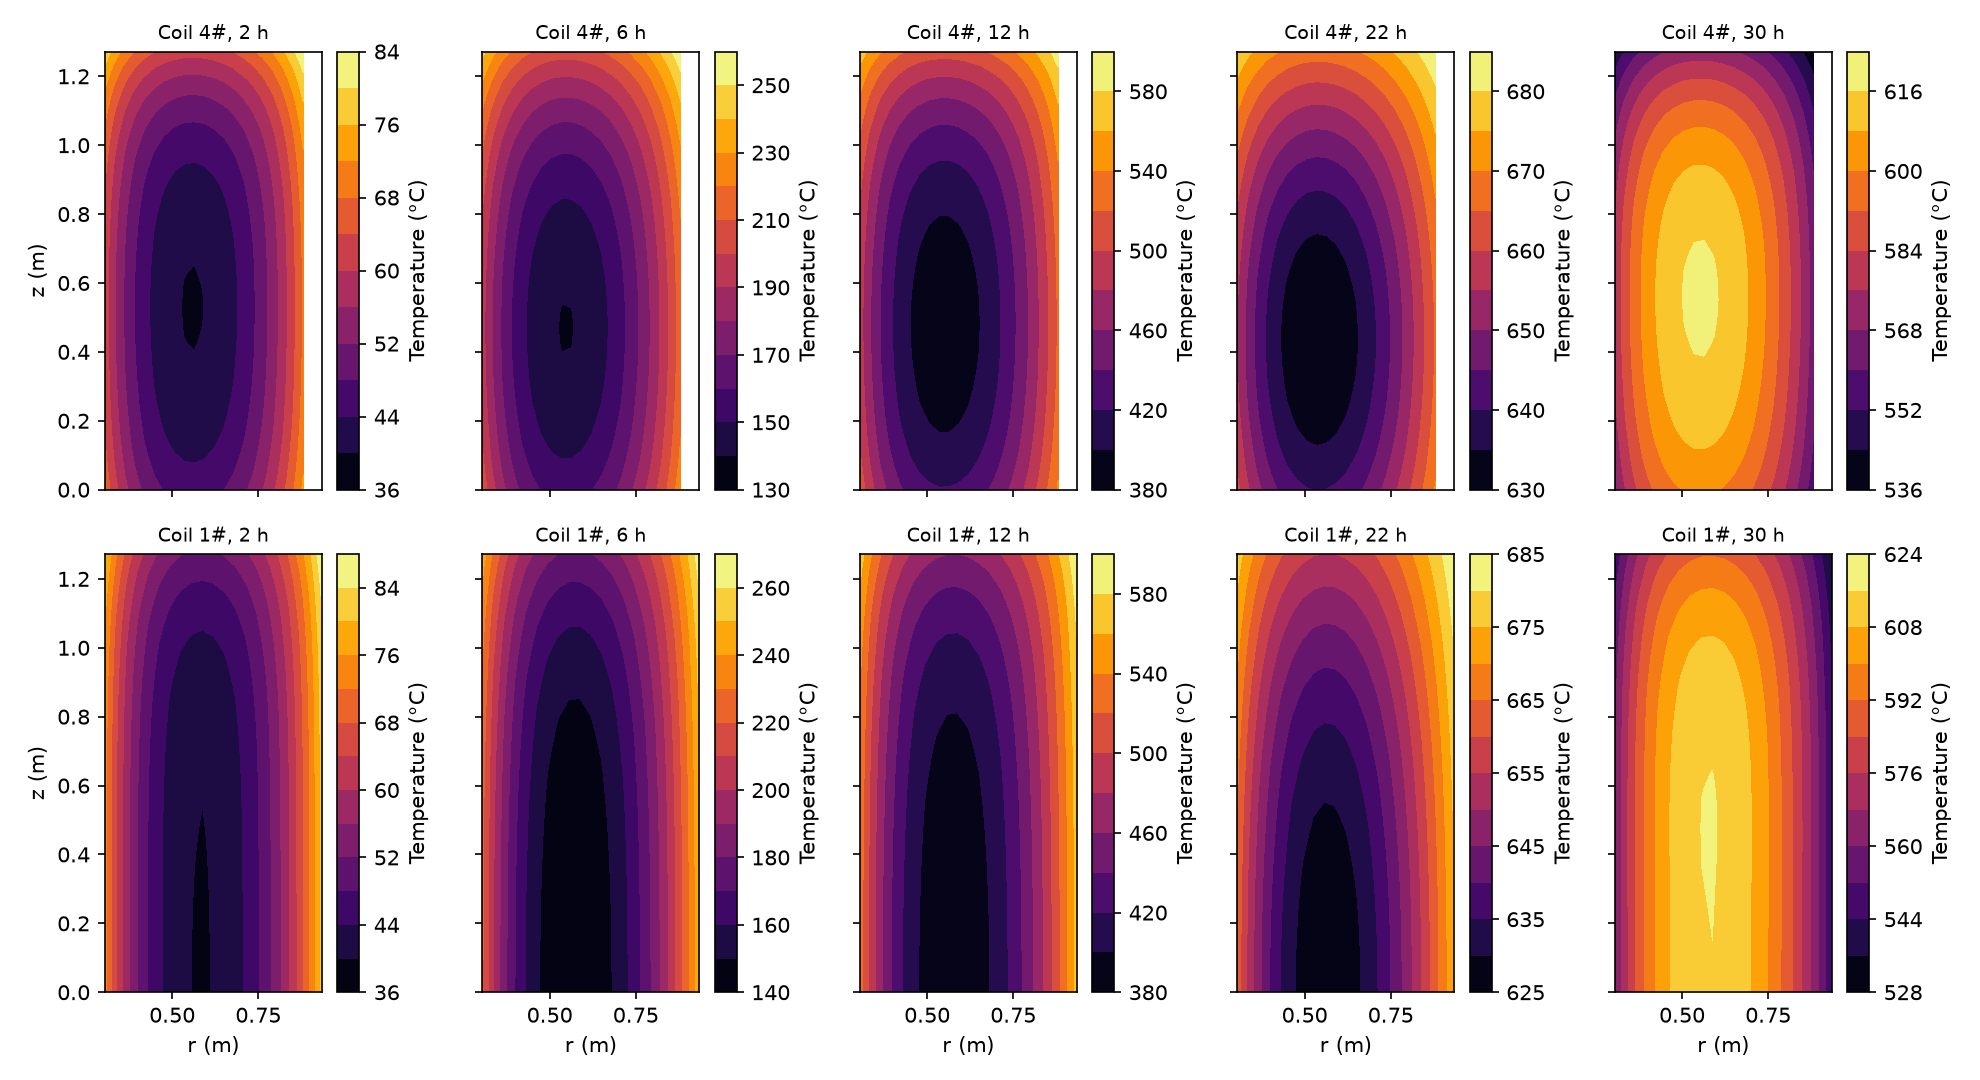
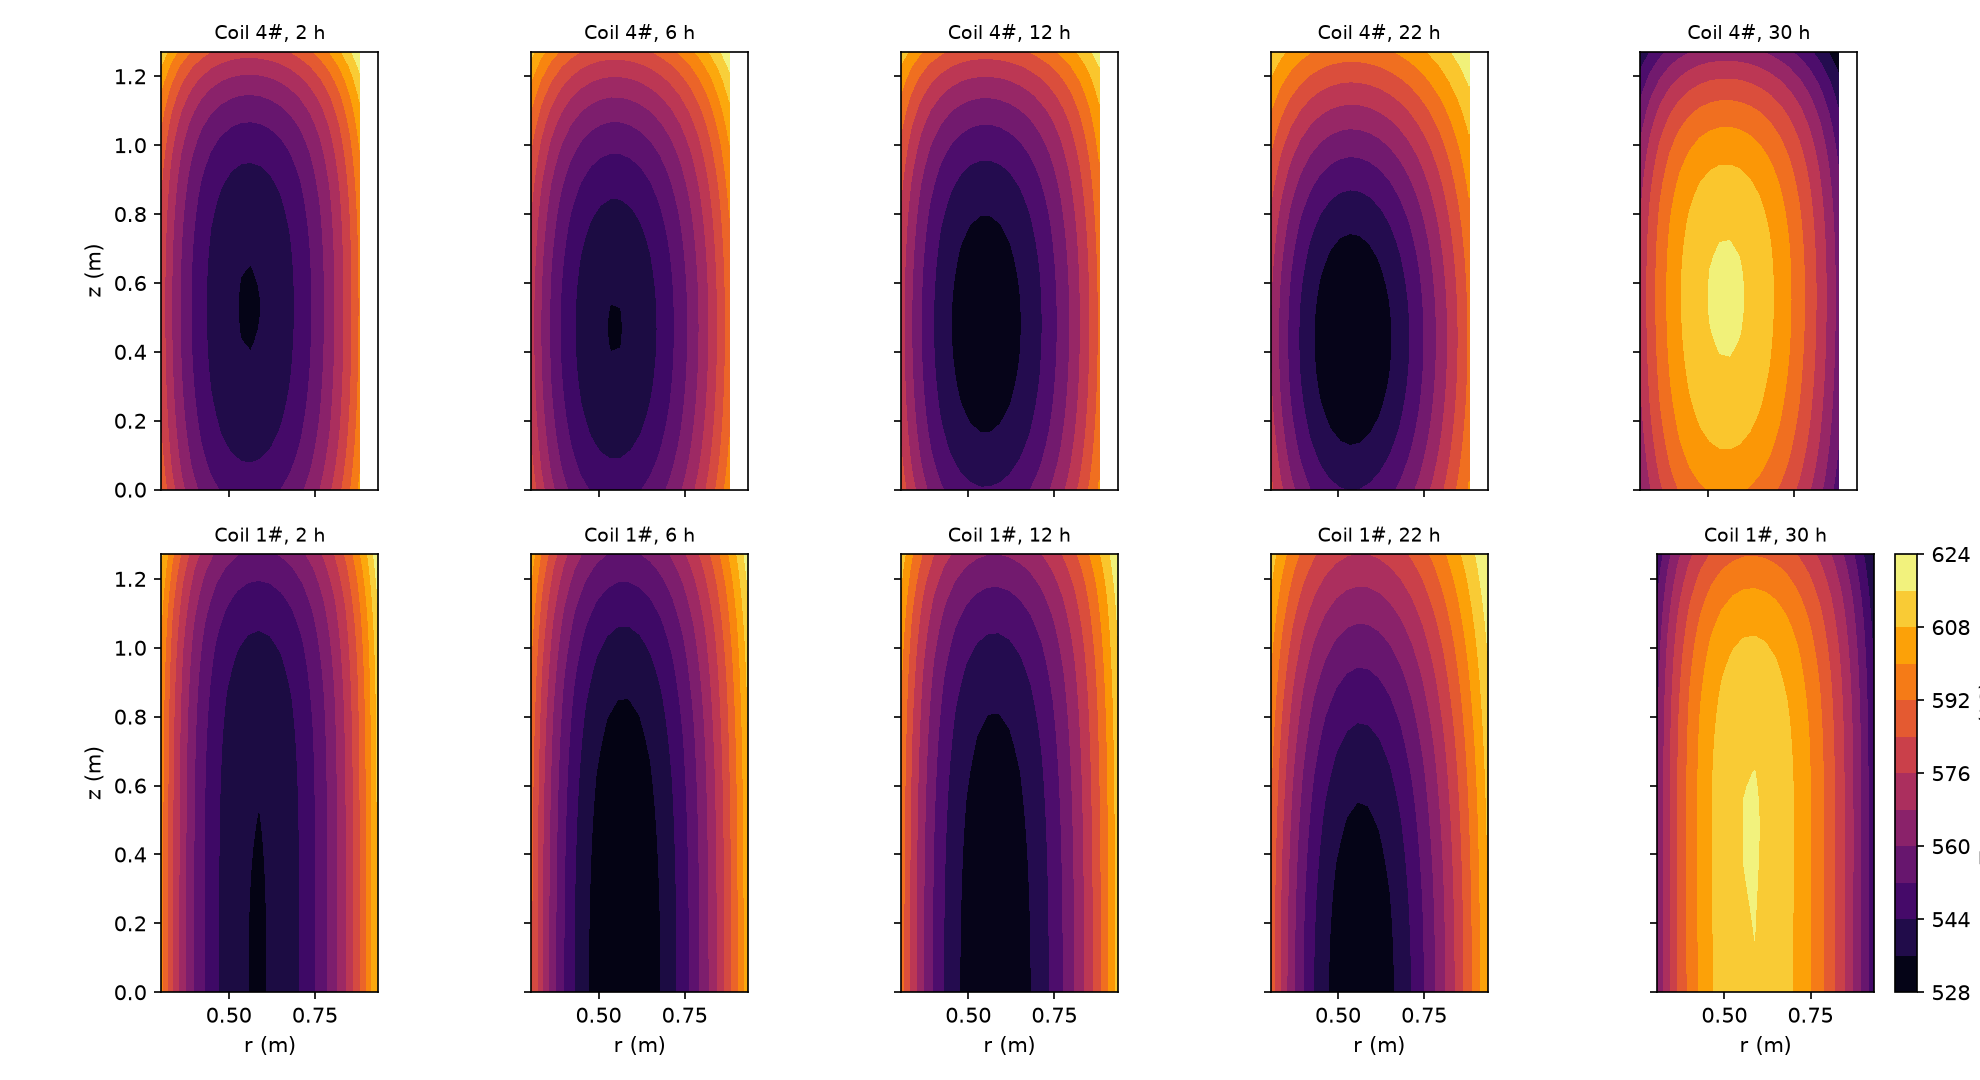
fix colorbar

diff --git a/scripts/run_mock_case.py b/scripts/run_mock_case.py
@@ -65,21 +65,32 @@ def plot_fields(*, meshes: list[dict], results: list[dict], times_h: list[float]
         path:    output png path
     '''
     rows = [3, 0]  # top coil, bottom coil
-    fig, axes = plt.subplots(len(rows), len(times_h), figsize=(2.4 * len(times_h) + 1.2, 7.2), sharex=True, sharey=True)
+
+    # collect every field first so all panels share one temperature scale
+    fields = {}
+    for i in rows:
+        r = results[i]
+        for t_h in times_h:
+            k = int(np.argmin(np.abs(r['time'] - t_h * HOUR)))
+            fields[(i, t_h)] = r['T'][k] - 273.15
+    T_low = np.floor(min(T.min() for T in fields.values()) / 10.0) * 10.0
+    T_high = np.ceil(max(T.max() for T in fields.values()) / 10.0) * 10.0
+    if T_high <= T_low:
+        T_high = T_low + 10.0
+    levels = np.linspace(T_low, T_high, 21)
+
+    fig, axes = plt.subplots(len(rows), len(times_h), figsize=(2.4 * len(times_h) + 1.6, 7.2), sharex=True, sharey=True, layout='constrained')
     for row, i in enumerate(rows):
-        mesh, r = meshes[i], results[i]
+        mesh = meshes[i]
         for col, t_h in enumerate(times_h):
             ax = axes[row, col]
-            k = int(np.argmin(np.abs(r['time'] - t_h * HOUR)))
-            T = r['T'][k] - 273.15
-            cs = ax.contourf(mesh['R'], mesh['Z'], T, levels=12, cmap='inferno')
-            fig.colorbar(cs, ax=ax, label='Temperature (°C)')            
+            cs = ax.contourf(mesh['R'], mesh['Z'], fields[(i, t_h)], levels=levels, cmap='inferno', vmin=T_low, vmax=T_high)
             ax.set_title(f'Coil {i + 1}#, {t_h:g} h', fontsize=9)
             ax.set_aspect('equal')
         axes[row, 0].set_ylabel('z (m)')
     for ax in axes[-1]:
         ax.set_xlabel('r (m)')
-    fig.tight_layout()
+    fig.colorbar(cs, ax=axes, label='Temperature (°C)', shrink=0.9)
     fig.savefig(path, dpi=150)
     plt.close(fig)
 
@@ -102,6 +113,7 @@ def plot_coefficients(*, h_function: callable, lambda_r_function: callable, path
     ax1.set_title('h, coil 2#')
     ax1.set_xlabel('Gas temperature (°C)')
     ax1.set_ylabel('h (W/(m² K))')
+    ax1.set_ylim(bottom=0)
     ax1.legend()
     ax1.grid(True)
 
@@ -111,6 +123,7 @@ def plot_coefficients(*, h_function: callable, lambda_r_function: callable, path
     ax2.set_title('λr, coil 1#')
     ax2.set_xlabel('Node temperature (°C)')
     ax2.set_ylabel('λr (W/(m K))')
+    ax2.set_ylim(bottom=0,top=25)
     ax2.legend()
     ax2.grid(True)
 
